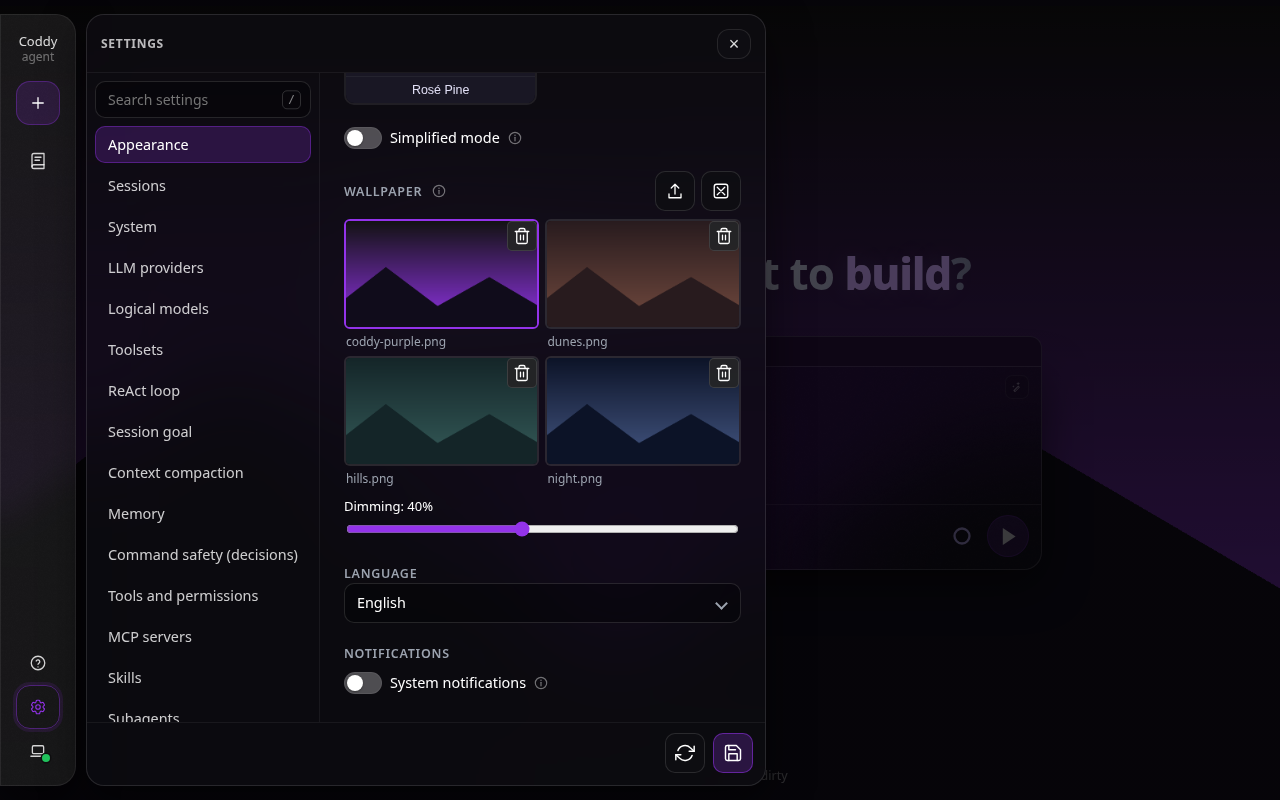
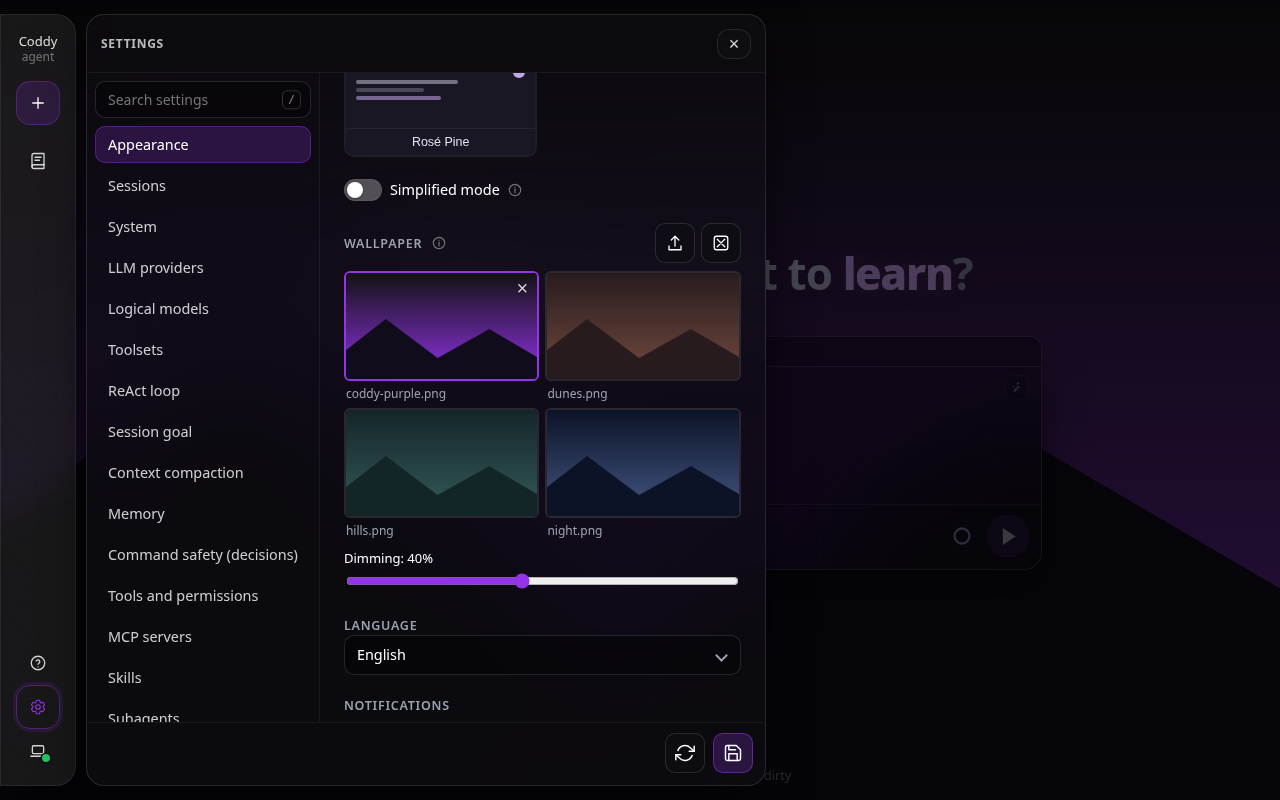
style(ui): reveal bare wallpaper delete crosses on hover

diff --git a/external/ui/src/ui/theme/wallpaperCss.test.ts b/external/ui/src/ui/theme/wallpaperCss.test.ts
@@ -3,6 +3,21 @@ import { expect, test } from "vitest";
 
 const css = stylesSource();
 const squash = (s: string) => s.replace(/\s+/g, " ").trim();
+const dock = stylesPartial("settings/dock");
+
+/** Every declaration the sheet writes for the delete control, at any state. */
+function deleteDeclarations(): string[] {
+  return [...dock.matchAll(/([^{}]*)\{([^}]*)\}/g)]
+    .filter(([, selector]) =>
+      (selector ?? "").includes(".appearance-wallpaper-delete"),
+    )
+    .flatMap(([, , body]) =>
+      squash(body ?? "")
+        .split(";")
+        .map((declaration) => declaration.trim())
+        .filter(Boolean),
+    );
+}
 
 test("a wallpaper covers the viewport, dimmed toward the theme's canvas colour", () => {
   const body = squash(
@@ -67,18 +82,92 @@ test("the compact wallpaper gallery keeps destructive controls beside selection"
   expect(dock).not.toContain(".appearance-wallpaper-preview");
 });
 
-test("wallpaper gallery uses two columns and a compact trash with a 40px hit area", () => {
-  const dock = stylesPartial("settings/dock");
-  expect(dock).toMatch(
-    /\.appearance-wallpaper-gallery\s*\{[^}]*grid-template-columns:\s*repeat\(2,\s*minmax\(0,\s*1fr\)\)/,
+test("wallpaper gallery keeps two columns and filenames", () => {
+  const flat = squash(dock);
+  expect(flat).toMatch(
+    /\.appearance-wallpaper-gallery \{ [^}]*grid-template-columns: repeat\(2, minmax\(0, 1fr\)\)/,
   );
-  expect(dock).toMatch(
-    /\.appearance-wallpaper-caption\s*\{[^}]*text-overflow:\s*ellipsis/,
+  expect(flat).toMatch(
+    /\.appearance-wallpaper-caption \{ [^}]*text-overflow: ellipsis/,
   );
-  expect(dock).toMatch(
-    /\.appearance-wallpaper-delete\s*\{[^}]*width:\s*30px;[^}]*height:\s*30px/,
+});
+
+// The delete control is the composer attachment's remove: a bare cross over the
+// picture, invisible until the pointer or the keyboard comes to it. A framed
+// trash plate over a thumbnail read as part of the picture and hid it.
+test("the wallpaper delete control is a bare cross with a 40px hit area", () => {
+  const flat = squash(dock);
+  expect(flat).toMatch(
+    /\.appearance-wallpaper-delete \{[^}]*width: 30px;[^}]*height: 30px/,
   );
-  expect(dock).toMatch(
-    /\.appearance-wallpaper-delete::after\s*\{[^}]*inset:\s*-5px/,
+  expect(flat).toMatch(
+    /\.appearance-wallpaper-delete::after \{ [^}]*inset: -5px/,
   );
+  // A light glyph with a hard dark edge stays legible over pictures in every theme.
+  expect(flat).toMatch(
+    /\.appearance-wallpaper-delete \{[^}]*font-size: 20px;[^}]*line-height: 1;/,
+  );
+  expect(flat).toMatch(
+    /\.appearance-wallpaper-delete \{[^}]*color: rgba\(255, 255, 255, 0\.82\);/,
+  );
+  expect(flat).toMatch(
+    /\.appearance-wallpaper-delete \{[^}]*-webkit-text-stroke: 0\.6px rgba\(0, 0, 0, 0\.8\);[^}]*paint-order: stroke fill;/,
+  );
+  expect(flat).toMatch(
+    /\.appearance-wallpaper-delete:hover, \.appearance-wallpaper-delete:focus-visible \{ color: #fff; \}/,
+  );
+  // No plate in any state: no ground, no frame, no shadow, no destructive red.
+  for (const declaration of deleteDeclarations()) {
+    const property = declaration.split(":")[0]!.trim();
+    const value = declaration.slice(property.length + 1).trim();
+    if (property.startsWith("background"))
+      expect(value, declaration).toBe("none");
+    if (/^border(?!-radius)/.test(property))
+      expect(value, declaration).toMatch(/^(0|none)$/);
+    if (property.startsWith("box-shadow"))
+      expect(value, declaration).toBe("none");
+    expect(declaration).not.toContain("--coddy-danger");
+  }
+  // It fades in and out, as the attachment's does; simplified mode drops this.
+  expect(flat).toMatch(
+    /\.appearance-wallpaper-delete \{[^}]*transition: [^;}]*opacity 0\.15s/,
+  );
+});
+
+// An invisible control that still takes pointer events would swallow the tap
+// that selects the thumbnail under it, on every tile at once.
+test("the wallpaper delete control is hidden until hovered, focused or tapped", () => {
+  const flat = squash(dock);
+  expect(flat).toMatch(
+    /\.appearance-wallpaper-delete \{[^}]*opacity: 0;[^}]*pointer-events: none;/,
+  );
+  // The hover reveal belongs to a pointer, so a touch does not leave it up.
+  const hoverReveal =
+    "@media (hover: hover) { .appearance-wallpaper-tile:hover .appearance-wallpaper-delete { opacity: 1; pointer-events: auto; }";
+  expect(flat).toContain(hoverReveal);
+  expect(
+    flat.match(
+      /\.appearance-wallpaper-tile:hover \.appearance-wallpaper-delete/g,
+    ),
+  ).toHaveLength(1);
+  // A keyboard reaches it without the tile's hover, and keeps its accent ring.
+  expect(flat).toContain(
+    ".appearance-wallpaper-delete:focus-visible { opacity: 1; pointer-events: auto; }",
+  );
+  expect(flat).toMatch(
+    /\.appearance-wallpaper-delete:focus-visible, \.appearance-wallpaper-thumb:focus-visible \{ outline: 2px solid var\(--accent\); outline-offset: 2px; \}/,
+  );
+  // A finger has no hover, so a tap's first press must find the cross there.
+  expect(flat).toContain(
+    "@media (hover: none) { .appearance-wallpaper-delete { opacity: 1; pointer-events: auto; }",
+  );
+  // Mouse focus on the tile would keep the cross up after the pointer leaves.
+  expect(flat).not.toContain(".appearance-wallpaper-tile:focus-within");
+  // The two reveals are gated by input capability and nothing else, so a touch
+  // never leaves the cross up and no width query decides it.
+  expect(flat.match(/@media \(hover: hover\)/g)).toHaveLength(1);
+  expect(flat.match(/@media \(hover: none\)/g)).toHaveLength(1);
+  expect(
+    flat.match(/\.appearance-wallpaper-delete \{ opacity: 1/g),
+  ).toHaveLength(2);
 });

diff --git a/external/ui/src/styles/settings/_dock.scss b/external/ui/src/styles/settings/_dock.scss
@@ -248,11 +248,20 @@
   align-items: center;
   justify-content: center;
   padding: 0;
-  border: 1px solid var(--coddy-glass-panel-border);
-  border-radius: 5px;
-  background: var(--coddy-tip-bg);
-  color: var(--text);
+  border: 0;
+  background: none;
+  // Keep the glyph readable over light and dark pictures in every theme.
+  color: rgba(255, 255, 255, 0.82);
+  -webkit-text-stroke: 0.6px rgba(0, 0, 0, 0.8);
+  paint-order: stroke fill;
+  font-size: 20px;
+  line-height: 1;
   cursor: pointer;
+  opacity: 0;
+  pointer-events: none;
+  transition:
+    opacity 0.15s ease,
+    color 0.15s ease;
 }
 
 .appearance-wallpaper-delete::after {
@@ -271,8 +280,32 @@
   padding: 4px 2px 0;
 }
 
-.appearance-wallpaper-delete:hover {
-  color: var(--coddy-danger);
+.appearance-wallpaper-delete:hover,
+.appearance-wallpaper-delete:focus-visible {
+  color: #fff;
+}
+
+/* The cross is the composer attachment's remove: nothing but the glyph, and the
+   pointer or the keyboard brings it out. Hidden at rest it is also inert, so an
+   invisible control never swallows the tap that picks the thumbnail under it. */
+@media (hover: hover) {
+  .appearance-wallpaper-tile:hover .appearance-wallpaper-delete {
+    opacity: 1;
+    pointer-events: auto;
+  }
+}
+
+.appearance-wallpaper-delete:focus-visible {
+  opacity: 1;
+  pointer-events: auto;
+}
+
+/* A finger has no hover to wait for, so the cross simply stands there. */
+@media (hover: none) {
+  .appearance-wallpaper-delete {
+    opacity: 1;
+    pointer-events: auto;
+  }
 }
 
 .appearance-wallpaper-delete:focus-visible,

diff --git a/external/ui/src/ui/theme/BackdropSettings.tsx b/external/ui/src/ui/theme/BackdropSettings.tsx
@@ -4,7 +4,6 @@ import { acquireObjectUrl, RASTER_IMAGE_TYPE } from "../files/objectUrl";
 import { useT } from "../i18n/I18nProvider";
 import { useConfirm, type ConfirmFn } from "../components/useConfirm";
 import { FieldHint } from "../settings/FieldHint";
-import { IconTrash } from "../settings/SchemaForm";
 import { SETTINGS_TEXTS, landmarkAnchor } from "../settings/settingsSections";
 import {
   backdropSnapshot,
@@ -111,7 +110,7 @@ function GalleryDeleteButton({
       data-testid={`appearance-wallpaper-delete-${photo.name}`}
       onClick={() => void onDelete(photo, confirm)}
     >
-      <IconTrash />
+      ×
     </button>
   );
 }

diff --git a/external/ui/src/ui/theme/BackdropSettings.test.tsx b/external/ui/src/ui/theme/BackdropSettings.test.tsx
@@ -683,6 +683,16 @@ test("gallery captions expose filenames once while delete stays separate", async
   ).toBe(false);
 });
 
+test("a delete control is a plain cross, not an icon plate", async () => {
+  server();
+  mount();
+  await tile();
+  const remove = screen.getByTestId("appearance-wallpaper-delete-a.png");
+  expect(remove.textContent).toBe("×");
+  expect(remove.querySelector("svg")).toBeNull();
+  expect(remove).toHaveAccessibleName("Delete a.png");
+});
+
 test("offscreen thumbnails fetch only after intersection and abort on unmount", async () => {
   const observers: Array<{
     callback: IntersectionObserverCallback;

diff --git a/DESIGN.md b/DESIGN.md
@@ -47,7 +47,7 @@ The styles are SCSS. **`external/ui/src/styles.scss`** is the entry Vite compile
 - **CSS:** semantic tokens on **`:root`** / **`[data-theme="dark"]`** (**`styles/themes/_dark.scss`**); **`[data-theme="light"]`** (**`_light.scss`** beside it, like every other theme) overrides **`--text`**, **`--bg`**, glass, canvas gradients, etc. Foreground tints use **`color-mix(in srgb, var(--text) …%, var(--coddy-blend-base))`** (**`transparent`** on dark, **`#ffffff`** on light) so text stays opaque and readable on each canvas. Hero headline gradient uses **`--coddy-hero-muted-mid`** / **`--coddy-hero-muted-end`** (no light-gray stops on a light background). The changing hero word follows the theme's **`--coddy-hero-accent`** in normal and simplified mode.
 - **Grain:** the canvas glows span only a few dozen of a channel's 256 levels, and the browser's ordered dither shows them as rings on a high-contrast screen (issue #622); the glass panels blur that dither into bare one-level steps. CSS cannot change how the browser dithers, so **`--coddy-grain`** (a 64px tile of triangular noise, white or black pixels at an alpha of 0 to 3/255; **`none`** on the light theme) lies over the gradients of the **`html`** background and over the tint of the title bar, the rail and the composer (**`html :is(.chat-header, .rail-pill, .composer-card)`**), which keep their **`backdrop-filter`**. It masks the rings and the steps; it does not remove them.
 - **Simplified mode** (**`html[data-simple="on"]`**, **`theme/uiSimple.ts`**, the partial **`styles/_simple.scss`**, last in the cascade): a switch under the theme grid (**`SimpleModeSetting.tsx`**, **`data-testid="appearance-simple-switch"`**) for a machine the glass and the motion cost too much on, and it holds for every theme. The mode's name is the switch's own label and stands under no heading; what it turns off is in the (i) tip beside it (**`appearance.simple.hint`**), which the settings search reads too. Without a wallpaper the canvas is one colour (**`--coddy-canvas-gradient-bottom`**); a selected wallpaper keeps its fixed **`center / cover`** image and dimming. The panels are an opaque **`--coddy-simple-surface`** (the theme's text at 6% over the canvas, white on the light theme): with no blur behind a translucent header, the transcript would read through it. No soft shadow, text shadow, **`backdrop-filter`**, mask or transition remains, and no interface animation runs. An animation loses its duration, not its name, so a row that fades in from nothing still reaches its end, and a script's motion asks **`motionIsReduced()`**. What says something stays: the hard rings of a state (**`$kept-rings`**: a focused control, the theme picked, a search target, a session's dot, a chip's outline) and the gradients that draw a mark with hard stops (the half-filled circle of a task in progress) or a picture's transparency. **`simpleModeCss.test.ts`** fails on a new gradient until it says which of the two it is, and **`npm run check:simple`** reads the computed style of every element of six screens, in every theme at 1280, 800 and 390 px. **`npm run bench:simple`** measures what it saves (headless Chromium, 1280x800): composited in software, as on a machine with no working GPU, 20 to 31 frames per second become 60 and the browser's CPU time falls by 61 to 92%; on an Intel UHD 630 the frame rate stays near 60 either way, and the CPU time of a chat left alone falls by 86 to 92% and of a scroll by 29%. The choice is the cookie **`coddy_ui_simple`** (**`1`**, the theme cookie's flags; off clears it), which the inline script of **`index.html`** applies before the first paint; client-side only, no config save.
-- **Wallpaper** (**Settings → Appearance**, below the simplified-mode switch and above the language picker, **`BackdropSettings`**): a compact gallery stays visible while the Appearance pane is shown. Its square upload icon opens the browser's file picker and sends the chosen file to the selected server. Uploading keeps the current background and dimming unchanged; with no background selected, it selects the uploaded picture. The server returns an existing file for identical bytes, even under another name, or adds a new file without overwriting a name collision. A stored browser-local picture is never uploaded on page load; only an explicit picker action uploads it. The square clear icon clears this browser's selection and restores the theme's background without deleting a server file. The gallery uses two columns at every width, with visible filename captions. Thumbnails load near the viewport through **`IntersectionObserver`**, or immediately when it is unavailable. A thumbnail's active border marks the selected picture, with no separate duplicate preview. The top-right delete icon on each thumbnail is 30px with a 40px hit area and opens **Delete "filename"?**, **Yes** / **No**, with **Yes** focused through **`ConfirmDialog`**'s **`initialFocus="confirm"`**. Only confirmation sends the deletion. A successful deletion clears this browser's background when it was that picture; deleting another picture leaves the background unchanged.
+- **Wallpaper** (**Settings → Appearance**, below the simplified-mode switch and above the language picker, **`BackdropSettings`**): a compact gallery stays visible while the Appearance pane is shown. Its square upload icon opens the browser's file picker and sends the chosen file to the selected server. Uploading keeps the current background and dimming unchanged; with no background selected, it selects the uploaded picture. The server returns an existing file for identical bytes, even under another name, or adds a new file without overwriting a name collision. A stored browser-local picture is never uploaded on page load; only an explicit picker action uploads it. The square clear icon clears this browser's selection and restores the theme's background without deleting a server file. The gallery uses two columns at every width, with visible filename captions. Thumbnails load near the viewport through **`IntersectionObserver`**, or immediately when it is unavailable. A thumbnail's active border marks the selected picture, with no separate duplicate preview. Each thumbnail carries an unframed delete cross at the top right, a 30px control with a 40px hit area and no background or border. On a desktop it appears on tile hover or on the button's own keyboard focus (`:focus-visible`), not on the tile's focus, so a click that leaves the tile focused does not keep the cross showing once the pointer has left; on screens without hover it stays visible, so one tap reaches it. It opens **Delete "filename"?**, **Yes** / **No**, with **Yes** focused through **`ConfirmDialog`**'s **`initialFocus="confirm"`**. Only confirmation sends the deletion. A successful deletion clears this browser's background when it was that picture; deleting another picture leaves the background unchanged.
 - **Wallpaper rendering and storage**: CSS displays **`--coddy-wallpaper`** on **`<html data-wallpaper="true">`** as a fixed **`center / cover`** background that preserves aspect ratio, fills the viewport and crops excess at the centre, under **`--coddy-canvas-gradient-bottom`** at **`--coddy-wallpaper-dim`** (cookie **`coddy_ui_wallpaper_dim`**, 0-90 %, 40 % by default). Simplified mode keeps the picture and its dimming while disabling glass, shadows and interface animation as before. Coddy imposes no file-size, dimension, pixel or frame limits. The browser stores a selected picture's bytes in IndexedDB (**`coddy-ui`** / **`backdrop`**) when available. It applies the selection after the transaction commits; a failed write shows an error and keeps the previous background and selection indication. A newer selection or an environment switch supersedes an older request. Without IndexedDB, the choice lasts only for the life of the page.
 - **Wallpaper gallery API** (**`ui/theme/wallpaperGallery.ts`**): the selected environment supplies the gallery from **`${CODDY_HOME}/wallpapers`** (normally **`~/.coddy/wallpapers`**). On the first HTTP **`Serve`** startup with a configured home, before listening, **`wallpaper.EnsureDefaults`** claims **`${CODDY_HOME}/.wallpapers-initialized`** outside the gallery. If the gallery is absent it creates it with mode **`0700`** and exclusively copies the embedded **`dunes.png`**, **`hills.png`**, **`night.png`** and **`coddy-purple.png`** with mode **`0600`**; it selects none. An existing gallery, empty or not, is left untouched and the decision recorded. A regular marker prevents restoration even after files or the entire gallery are deleted. The marker is claimed before copying, so interruption may leave a partial pack that is not retried. Initialization failures are logged as warnings and do not stop the HTTP server. Listing a missing directory gives an empty gallery without creating it; an upload creates it when needed. The list contains regular files with recognized image headers, sorted by name with case-sensitive comparison, and has distinct loading, empty and failed states. **`GET /coddy/wallpapers/{name}`** streams the safely opened original without decoding pixels or first reading the whole file into memory. **`POST`** on that path uploads raw bytes with SHA-256 deduplication and returns the actual stored name; **`DELETE`** removes the named server file ([Wallpaper gallery](docs/reference/http-api.md#wallpaper-gallery)). Reads, uploads and deletions use the active environment's authentication, through a remote or a swarm relay too, with bearer credentials in headers, never in image URLs. No external picture service is contacted.
 

diff --git a/docs/ru/surfaces/web-ui.md b/docs/ru/surfaces/web-ui.md
@@ -285,7 +285,7 @@ https://github.com/user-attachments/assets/604d01bb-b730-4ca5-9955-a7a593891054
 **Настройки → Оформление → Обои** показывает галерею без отдельной кнопки открытия. Квадратный значок загрузки открывает окно выбора файла в браузере и загружает выбранную картинку на сервер выбранного окружения. Квадратный значок очистки убирает фон в этом браузере и возвращает фон темы; файлы на сервере остаются. Каждый браузер запоминает свой выбранный фон и его затемнение.
 
 - **Загрузка** - сервер сравнивает байты файла по SHA-256. Если такие байты уже есть, он возвращает имя существующего файла, даже если выбранный файл называется иначе. Иначе он добавляет новую картинку в отсортированную галерею. Если имя занято файлом с другими байтами, сервер выбирает новое имя и не заменяет существующий файл. Загрузка не меняет уже выбранный фон и его затемнение. Если фон не выбран, загруженная картинка становится фоном. Картинка, сохранённая только в этом браузере, не загружается на сервер при открытии страницы; её отправляет только выбор файла через значок загрузки;
-- **выбор и удаление** - нажмите миниатюру, чтобы сделать картинку фоном. Галерея показывает две колонки на любой ширине и имя файла под каждой миниатюрой. Активная рамка отмечает выбранную миниатюру; отдельного превью для неё нет. Миниатюры загружаются при приближении к видимой части экрана, а если браузер не поддерживает `IntersectionObserver`, сразу. В правом верхнем углу каждой миниатюры есть значок удаления размером 30px с областью нажатия 40px. Он открывает вопрос **Удалить "filename"?** с кнопками **Да** и **Нет**; начальный фокус стоит на **Да**. Сервер удаляет файл только после подтверждения. Удаление выбранной картинки также убирает фон в этом браузере. Удаление другой картинки не меняет текущий фон;
+- **выбор и удаление** - нажмите миниатюру, чтобы сделать картинку фоном. Галерея показывает две колонки на любой ширине и имя файла под каждой миниатюрой. Активная рамка отмечает выбранную миниатюру; отдельного превью для неё нет. Миниатюры загружаются при приближении к видимой части экрана, а если браузер не поддерживает `IntersectionObserver`, сразу. У каждой миниатюры в правом верхнем углу есть крестик удаления без фона и без рамки - это элемент управления 30px с областью нажатия 40px. Он появляется при наведении на миниатюру или когда сам крестик получает фокус с клавиатуры, а на экранах без наведения остаётся видимым. Он открывает вопрос **Удалить "filename"?** с кнопками **Да** и **Нет**; начальный фокус стоит на **Да**. Сервер удаляет файл только после подтверждения. Удаление выбранной картинки также убирает фон в этом браузере. Удаление другой картинки не меняет текущий фон;
 - **отображение и затемнение** - Картинка остаётся неподвижной относительно окна и располагается по центру. Штатный CSS `center / cover` сохраняет её пропорции и заполняет всё окно, обрезая лишнее симметрично относительно центра. Ползунок затемнения накладывает на картинку цвет холста темы, от 0 до 90 % (по умолчанию 40 %, cookie `coddy_ui_wallpaper_dim`). Упрощённый режим сохраняет картинку и затемнение; стеклянные эффекты, тени и анимация интерфейса остаются отключёнными;
 - **картинки** - Coddy не ограничивает размер файла, размеры изображения, число пикселей или кадров. Сервер распознаёт заголовки изображений и передаёт исходные файлы потоком, без декодирования пикселей и чтения всего файла в память. Браузер должен уметь читать выбранную картинку; если чтение не удалось, появляется ошибка;
 - **хранение в браузере** - байты выбранной картинки сохраняются в IndexedDB. Браузер применяет новый выбор после успешной фиксации транзакции записи. Ошибка записи показывается на экране, прежний фон и отметка выбора сохраняются. Более поздний выбор или смена окружения отменяет применение результата более раннего запроса. Если IndexedDB нет, выбор хранится только до закрытия или перезагрузки страницы;
@@ -2523,4 +2523,4 @@ Playwright ставится так же, как для проверки шевр
 
 Чтобы прогнать Playwright MCP против живого шлюза, соберите **`make build TAGS="http ui memory"`**, затем запустите **`./build/coddy serve`** с одноразовым **`--home`**, чтобы конфигурация могла включить память; откройте **`http://127.0.0.1:<port>/`**, перейдите в сессию, отправьте промпт, откройте панель задач и проверьте метку **память** в строке запуска.
 
-<!-- docsgen:source sha256=b8bb7a9c64d2b049 -->
+<!-- docsgen:source sha256=0ddc401f1b61326e -->

diff --git a/docs/surfaces/web-ui.md b/docs/surfaces/web-ui.md
@@ -285,7 +285,7 @@ The code is `external/ui/src/ui/pwa/` (`notifications.ts` shows a notice, `atten
 **Settings → Appearance → Wallpaper** shows the gallery without an extra open button. The square upload icon opens the browser's file picker and uploads the chosen picture to the selected server. The square clear icon clears this browser's background and restores the theme's background; it leaves server files in place. Each browser remembers its own selected background and dimming.
 
 - **Upload:** the server compares the file's bytes by SHA-256. If those bytes already exist, it returns that file's name, even when the chosen file has another name. Otherwise it adds a new picture to the sorted gallery. A name collision with different bytes gets a new name without replacing the existing file. An upload leaves an already selected background and its dimming unchanged. With no background selected, it selects the uploaded picture. A picture saved privately in this browser is not uploaded when the page opens; only choosing a file through the upload control sends it to the server.
-- **Selection and deletion:** click a thumbnail to use that picture as the background. The gallery has two columns at every width and shows each filename under its thumbnail. Its active border marks the selection, without a separate duplicate preview. Thumbnails load as they approach the viewport, or immediately if the browser lacks `IntersectionObserver`. Each thumbnail has a 30px delete icon at the top right with a 40px hit area. It opens **Delete "filename"?** with **Yes** and **No**; **Yes** receives the initial focus. The server file is deleted only after confirmation. Deleting the selected picture also clears this browser's background. Deleting another picture leaves the current background unchanged.
+- **Selection and deletion:** click a thumbnail to use that picture as the background. The gallery has two columns at every width and shows each filename under its thumbnail. Its active border marks the selection, without a separate duplicate preview. Thumbnails load as they approach the viewport, or immediately if the browser lacks `IntersectionObserver`. Each thumbnail has an unframed delete cross at the top right, in a 30px control with a 40px hit area, without a background or border. It appears on tile hover or when the cross itself has keyboard focus, and it stays visible on screens without hover. It opens **Delete "filename"?** with **Yes** and **No**; **Yes** receives the initial focus. The server file is deleted only after confirmation. Deleting the selected picture also clears this browser's background. Deleting another picture leaves the current background unchanged.
 - **Display and dimming:** native CSS `center / cover` keeps the image fixed and centred, preserves its aspect ratio, fills the viewport and crops excess at the centre. The dimming slider lays the theme's canvas colour over it, from 0 to 90 % (40 % by default, cookie `coddy_ui_wallpaper_dim`). Simplified mode keeps the picture and dimming; glass, shadows and interface animation stay disabled.
 - **Pictures:** Coddy imposes no file-size, dimension, pixel or frame limits. The server recognizes image headers and streams originals without pixel decoding or reading a whole file into memory. The browser must be able to read the selected picture; a failed read shows an error.
 - **Browser storage:** the selected picture's bytes stay in IndexedDB. The browser applies a new selection after the storage transaction commits. A failed write shows an error and keeps the previous background and selection indication. A later selection or an environment switch supersedes an older request. Without IndexedDB, the choice lasts only for the life of the page.

diff --git a/docs/assets/INDEX.md b/docs/assets/INDEX.md
@@ -520,7 +520,7 @@ Generated by `make docs`. "Used by" lists the files that reference the asset.
 | `tool-structured-cards-dark-390.png` | 173 KB | docs/ru/surfaces/web-ui.md, docs/surfaces/web-ui.md |
 | `tool-structured-documents-dark-1280.png` | 278 KB | docs/ru/surfaces/web-ui.md, docs/surfaces/web-ui.md |
 | `user-message-controls-dark-1280.png` | 465 KB | DESIGN.md, docs/ru/surfaces/web-ui.md, docs/surfaces/web-ui.md |
-| `wallpaper-gallery-dark-1280.png` | 182 KB | docs/ru/surfaces/web-ui.md, docs/surfaces/web-ui.md |
-| `wallpaper-setting-dark-1280.png` | 204 KB | docs/ru/surfaces/web-ui.md, docs/surfaces/web-ui.md |
+| `wallpaper-gallery-dark-1280.png` | 170 KB | docs/ru/surfaces/web-ui.md, docs/surfaces/web-ui.md |
+| `wallpaper-setting-dark-1280.png` | 200 KB | docs/ru/surfaces/web-ui.md, docs/surfaces/web-ui.md |
 | `zoom-controls-dark-390.png` | 42 KB | docs/ru/surfaces/web-ui.md, docs/surfaces/web-ui.md |
 <!-- docsgen:assets:end -->
